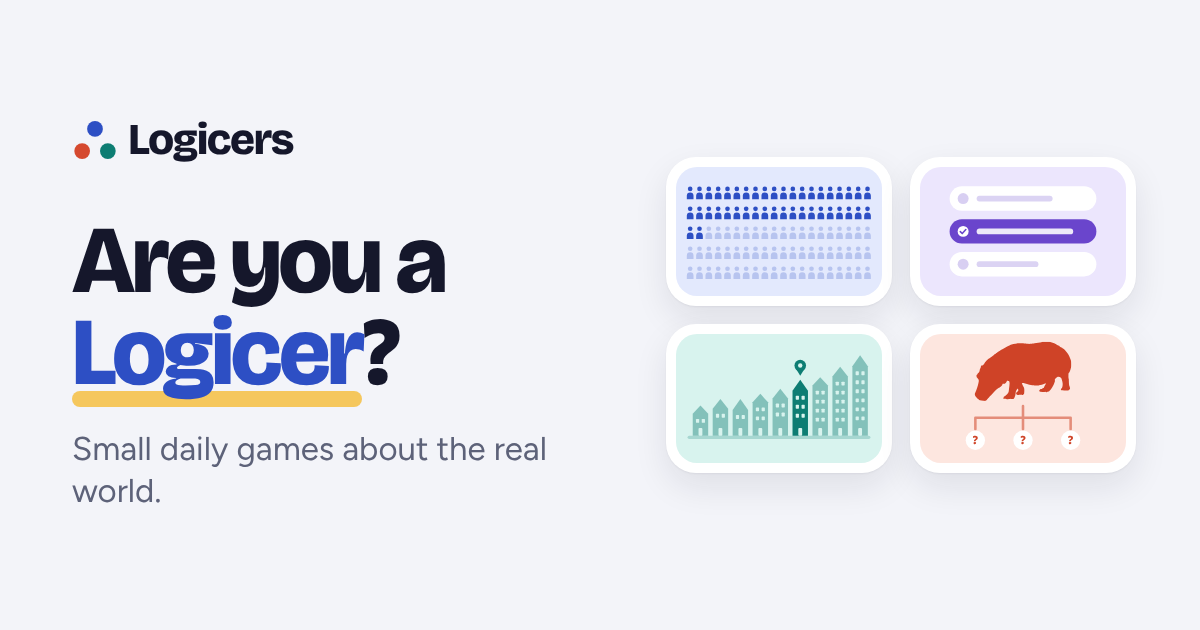
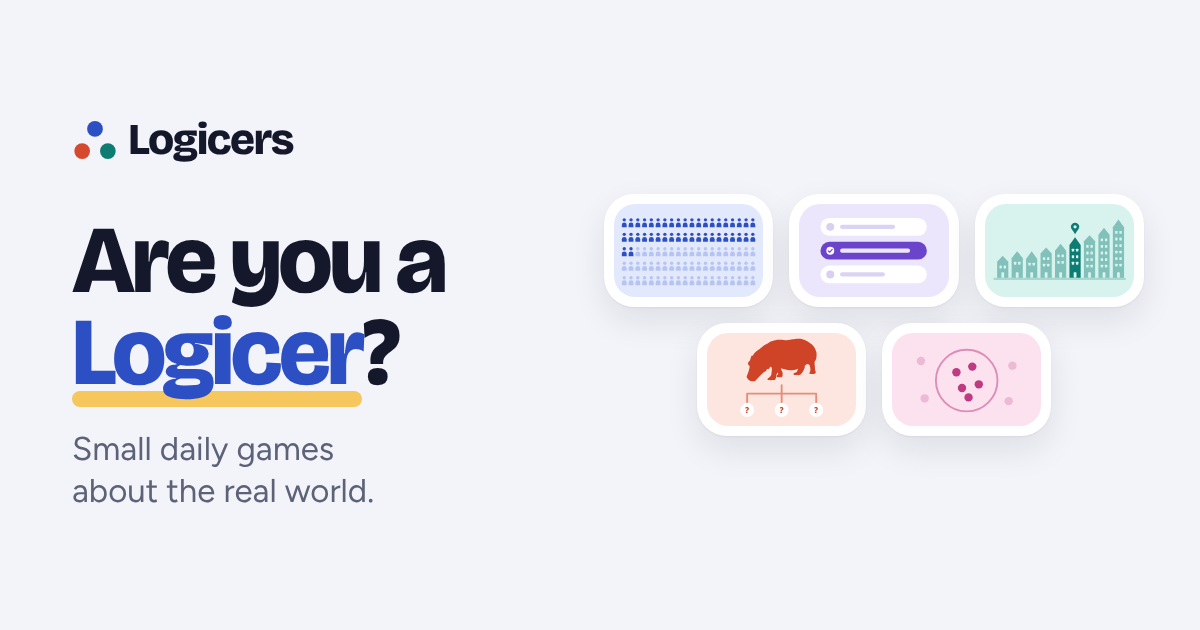
commit to site

diff --git a/long-lost-cousin/index.html b/long-lost-cousin/index.html
@@ -3,13 +3,17 @@
 <head>
 <meta charset="utf-8">
 <meta name="viewport" content="width=device-width, initial-scale=1, viewport-fit=cover">
-<title>Long Lost Cousin | Logicers</title>
+<title>Long Lost Cousin: a daily game about animal family trees | Logicers</title>
+<link rel="canonical" href="https://logicers.com/long-lost-cousin/">
 <meta name="description" content="One animal, three others. Which one is its closest relative? Pick one, then watch the family tree draw itself.">
 <meta property="og:type" content="website">
 <meta property="og:site_name" content="Logicers">
 <meta property="og:title" content="Long Lost Cousin">
 <meta property="og:description" content="One animal, three others. Which one is its closest relative?">
-<meta property="og:image" content="../assets/img/og.png">
+<meta property="og:url" content="https://logicers.com/long-lost-cousin/">
+<meta property="og:image" content="https://logicers.com/assets/img/og.png">
+<meta property="og:image:width" content="1200">
+<meta property="og:image:height" content="630">
 <meta name="twitter:card" content="summary_large_image">
 <meta name="theme-color" content="#FDE6DF" media="(prefers-color-scheme: light)">
 <meta name="theme-color" content="#080A15" media="(prefers-color-scheme: dark)">

diff --git a/the-club/index.html b/the-club/index.html
@@ -3,13 +3,17 @@
 <head>
 <meta charset="utf-8">
 <meta name="viewport" content="width=device-width, initial-scale=1, viewport-fit=cover">
-<title>The Club | Logicers</title>
+<title>The Club: a daily guess-the-rule game | Logicers</title>
+<link rel="canonical" href="https://logicers.com/the-club/">
 <meta name="description" content="Some are in the club, some are not. Work out the secret rule and decide who else gets in. Then the sign lights up with one true fact.">
 <meta property="og:type" content="website">
 <meta property="og:site_name" content="Logicers">
 <meta property="og:title" content="The Club">
 <meta property="og:description" content="Some are in the club, some are not. Work out the secret rule. Who else gets in?">
-<meta property="og:image" content="../assets/img/og.png">
+<meta property="og:url" content="https://logicers.com/the-club/">
+<meta property="og:image" content="https://logicers.com/assets/img/og.png">
+<meta property="og:image:width" content="1200">
+<meta property="og:image:height" content="630">
 <meta name="twitter:card" content="summary_large_image">
 <meta name="theme-color" content="#FBE2EE" media="(prefers-color-scheme: light)">
 <meta name="theme-color" content="#080A15" media="(prefers-color-scheme: dark)">

diff --git a/same-street/index.html b/same-street/index.html
@@ -3,13 +3,17 @@
 <head>
 <meta charset="utf-8">
 <meta name="viewport" content="width=device-width, initial-scale=1, viewport-fit=cover">
-<title>Same Street | Logicers</title>
+<title>Same Street: a daily game about how the world lives | Logicers</title>
+<link rel="canonical" href="https://logicers.com/same-street/">
 <meta name="description" content="Three photos of one real home. Place it on a street of 100 houses sorted by income, then see where it really stands.">
 <meta property="og:type" content="website">
 <meta property="og:site_name" content="Logicers">
 <meta property="og:title" content="Same Street">
 <meta property="og:description" content="Three photos of one real home. Where on the street does it stand?">
-<meta property="og:image" content="../assets/img/og.png">
+<meta property="og:url" content="https://logicers.com/same-street/">
+<meta property="og:image" content="https://logicers.com/assets/img/og.png">
+<meta property="og:image:width" content="1200">
+<meta property="og:image:height" content="630">
 <meta name="twitter:card" content="summary_large_image">
 <meta name="theme-color" content="#D8F3EE" media="(prefers-color-scheme: light)">
 <meta name="theme-color" content="#080A15" media="(prefers-color-scheme: dark)">

diff --git a/your-call/index.html b/your-call/index.html
@@ -3,13 +3,17 @@
 <head>
 <meta charset="utf-8">
 <meta name="viewport" content="width=device-width, initial-scale=1, viewport-fit=cover">
-<title>Your Call | Logicers</title>
+<title>Your Call: a daily history game | Logicers</title>
+<link rel="canonical" href="https://logicers.com/your-call/">
 <meta name="description" content="One real moment from history a day. Three choices. Make your call, then see what the real leader did and what happened next.">
 <meta property="og:type" content="website">
 <meta property="og:site_name" content="Logicers">
 <meta property="og:title" content="Your Call">
 <meta property="og:description" content="A real moment from history and three choices. What did they actually do?">
-<meta property="og:image" content="../assets/img/og.png">
+<meta property="og:url" content="https://logicers.com/your-call/">
+<meta property="og:image" content="https://logicers.com/assets/img/og.png">
+<meta property="og:image:width" content="1200">
+<meta property="og:image:height" content="630">
 <meta name="twitter:card" content="summary_large_image">
 <meta name="theme-color" content="#ECE6FD" media="(prefers-color-scheme: light)">
 <meta name="theme-color" content="#080A15" media="(prefers-color-scheme: dark)">

diff --git a/100-of-us/index.html b/100-of-us/index.html
@@ -3,13 +3,17 @@
 <head>
 <meta charset="utf-8">
 <meta name="viewport" content="width=device-width, initial-scale=1, viewport-fit=cover">
-<title>100 of Us | Logicers</title>
+<title>100 of Us: a daily game about the world's people | Logicers</title>
+<link rel="canonical" href="https://logicers.com/100-of-us/">
 <meta name="description" content="One question a day about the world's people. Press and hold, let go at your guess, and see how it really is.">
 <meta property="og:type" content="website">
 <meta property="og:site_name" content="Logicers">
 <meta property="og:title" content="100 of Us">
 <meta property="og:description" content="Of 100 people in the world, how many…? One question a day.">
-<meta property="og:image" content="../assets/img/og.png">
+<meta property="og:url" content="https://logicers.com/100-of-us/">
+<meta property="og:image" content="https://logicers.com/assets/img/og.png">
+<meta property="og:image:width" content="1200">
+<meta property="og:image:height" content="630">
 <meta name="twitter:card" content="summary_large_image">
 <meta name="theme-color" content="#E3E9FD" media="(prefers-color-scheme: light)">
 <meta name="theme-color" content="#080A15" media="(prefers-color-scheme: dark)">

diff --git a/index.html b/index.html
@@ -4,12 +4,16 @@
 <meta charset="utf-8">
 <meta name="viewport" content="width=device-width, initial-scale=1, viewport-fit=cover">
 <title>Logicers: small daily games about the real world</title>
+<link rel="canonical" href="https://logicers.com/">
 <meta name="description" content="Small daily games about the real world. A minute each, and one true thing every time, with its source.">
 <meta property="og:type" content="website">
 <meta property="og:site_name" content="Logicers">
 <meta property="og:title" content="Logicers. Are you a Logicer?">
 <meta property="og:description" content="Small daily games about the real world. A minute each. One true thing every time.">
-<meta property="og:image" content="assets/img/og.png">
+<meta property="og:url" content="https://logicers.com/">
+<meta property="og:image" content="https://logicers.com/assets/img/og.png">
+<meta property="og:image:width" content="1200">
+<meta property="og:image:height" content="630">
 <meta name="twitter:card" content="summary_large_image">
 <meta name="theme-color" content="#F3F4F9" media="(prefers-color-scheme: light)">
 <meta name="theme-color" content="#080A15" media="(prefers-color-scheme: dark)">

diff --git a/assets/js/turnsout.js b/assets/js/turnsout.js
@@ -18,7 +18,7 @@
      Empty quotes: the site's own web address is used.
      Once the site has its own domain, write it here, for example "turnsout.games".
      ------------------------------------------------------------------ */
-  var ADDRESS = "";
+  var ADDRESS = "logicers.com";
   var SELF = (document.currentScript && document.currentScript.src) || "";
 
   var KEY = "turnsout:v1";

diff --git a/r/site-workshop/make_brand.py b/r/site-workshop/make_brand.py
@@ -1,8 +1,12 @@
-"""Browser-tab icon, phone home-screen icon, link preview picture and the "not found" page, in the new look."""
-import asyncio
+"""Browser-tab icon, phone home-screen icon, link preview picture and the "not found" page, in the new look.
+
+    python3 make_brand.py [folder of the site]     the folder must be served at http://localhost:8790 while it runs
+"""
+import asyncio, os, sys, tempfile
 from playwright.async_api import async_playwright
 from arts import *
-OUT = '/home/claude/work/site2'
+OUT = sys.argv[1] if len(sys.argv) > 1 else '/home/claude/work/site2'   # the folder of the site; it must also be served at http://localhost:8790
+TOUCH = os.path.join(tempfile.gettempdir(), 'logicers-touch.html')
 
 favicon = '''<svg xmlns="http://www.w3.org/2000/svg" viewBox="0 0 64 64">
 <circle cx="32" cy="16.5" r="11.5" fill="#3558DC"/>
@@ -18,20 +22,22 @@ svg { display: block; width: 180px; height: 180px; }
 </style></head><body>
 <svg viewBox="0 0 180 180"><circle cx="90" cy="55" r="26" fill="#2D4FC4"/><circle cx="51" cy="122" r="26" fill="#D5492F"/><circle cx="129" cy="122" r="26" fill="#0D7D73"/></svg>
 </body></html>'''
-open('touch.html', 'w').write(touch)
+open(TOUCH, 'w').write(touch)
 
 og = f'''<!doctype html><html><head><meta charset="utf-8">
 <link rel="stylesheet" href="assets/css/logicers.css">
 <style>
 html, body {{ margin: 0; width: 1200px; height: 630px; overflow: hidden; background: #F3F4F9; }}
-.wrap {{ display: grid; grid-template-columns: 1fr 470px; gap: 40px; align-items: center; height: 630px; padding: 0 64px 0 72px; }}
+.wrap {{ display: grid; grid-template-columns: 1fr 540px; gap: 40px; align-items: center; height: 630px; padding: 0 56px 0 72px; max-width: none; margin: 0; box-sizing: border-box; }}
 .logo .mark {{ width: 46px; height: 46px; }}
 .logo .word {{ font-size: 44px; }}
 h1 {{ font-family: var(--display); font-weight: 800; font-size: 96px; line-height: .96; letter-spacing: -0.035em; margin-top: 46px; position: relative; z-index: 0; }}
 h1 em {{ font-style: normal; color: #2D4FC4; position: relative; white-space: nowrap; }}
 h1 em::after {{ content: ""; position: absolute; left: 0; right: 0; bottom: .04em; height: .16em; border-radius: 99px; background: #F5C24B; z-index: -1; opacity: .9; }}
-.sub {{ margin-top: 28px; font-size: 33px; line-height: 1.3; color: #5D6279; max-width: 14.5em; }}
-.arts {{ display: grid; grid-template-columns: 1fr 1fr; gap: 18px; }}
+.sub {{ margin-top: 28px; font-size: 33px; line-height: 1.3; color: #5D6279; max-width: 14.5em; text-wrap: balance; }}
+.arts {{ display: grid; grid-template-columns: repeat(6, 1fr); gap: 16px; }}
+.arts .card {{ grid-column: span 2; }}
+.arts .card:nth-child(4) {{ grid-column: 2 / span 2; }}   /* five cards: three above, two centred below */
 .card {{ background: #fff; border-radius: 30px; padding: 10px; box-shadow: 0 1px 2px rgba(21,23,43,.05), 0 14px 34px rgba(21,23,43,.09); }}
 .card .art {{ border-radius: 21px; }}
 </style></head><body>
@@ -46,6 +52,7 @@ h1 em::after {{ content: ""; position: absolute; left: 0; right: 0; bottom: .04e
     <div class="card" data-g="call"><div class="art">{art_call()}</div></div>
     <div class="card" data-g="street"><div class="art">{art_street()}</div></div>
     <div class="card" data-g="cousin"><div class="art">{art_cousin()}</div></div>
+    <div class="card" data-g="club"><div class="art">{art_club()}</div></div>
   </div>
 </div>
 <script src="long-lost-cousin/pics/hippo.js"></script>
@@ -99,7 +106,7 @@ async def main():
     async with async_playwright() as p:
         br = await p.chromium.launch()
         ctx = await br.new_context(viewport={'width': 180, 'height': 180}, device_scale_factor=1)
-        pg = await ctx.new_page(); await pg.goto('file:///home/claude/work/site2tools/touch.html'); await pg.screenshot(path=f'{OUT}/assets/img/apple-touch-icon.png'); await ctx.close()
+        pg = await ctx.new_page(); await pg.goto('file://' + TOUCH); await pg.screenshot(path=f'{OUT}/assets/img/apple-touch-icon.png'); await ctx.close()
         ctx = await br.new_context(viewport={'width': 1200, 'height': 630}, device_scale_factor=1, color_scheme='light')
         pg = await ctx.new_page(); errs = []
         pg.on('console', lambda m: errs.append(m.text) if m.type == 'error' else None)

diff --git a/r/site-workshop/build_home.py b/r/site-workshop/build_home.py
@@ -13,6 +13,7 @@ The shelf is laid out by the number of games: logicers.css has rules for .grid[d
 """
 import os, sys
 OUT = sys.argv[1] if len(sys.argv) > 1 else '/home/claude/work/site2'
+SITE_URL = 'https://logicers.com/'      # the site's own address: link previews, sitemap.xml and robots.txt use it
 
 from arts import *
 
@@ -55,12 +56,16 @@ html = f'''<!doctype html>
 <meta charset="utf-8">
 <meta name="viewport" content="width=device-width, initial-scale=1, viewport-fit=cover">
 <title>Logicers: small daily games about the real world</title>
+<link rel="canonical" href="{SITE_URL}">
 <meta name="description" content="Small daily games about the real world. A minute each, and one true thing every time, with its source.">
 <meta property="og:type" content="website">
 <meta property="og:site_name" content="Logicers">
 <meta property="og:title" content="Logicers. Are you a Logicer?">
 <meta property="og:description" content="Small daily games about the real world. A minute each. One true thing every time.">
-<meta property="og:image" content="assets/img/og.png">
+<meta property="og:url" content="{SITE_URL}">
+<meta property="og:image" content="{SITE_URL}assets/img/og.png">
+<meta property="og:image:width" content="1200">
+<meta property="og:image:height" content="630">
 <meta name="twitter:card" content="summary_large_image">
 <meta name="theme-color" content="#F3F4F9" media="(prefers-color-scheme: light)">
 <meta name="theme-color" content="#080A15" media="(prefers-color-scheme: dark)">
@@ -157,4 +162,11 @@ html = f'''<!doctype html>
 </html>
 '''
 open(f'{OUT}/index.html', 'w', encoding='utf-8').write(html)
+
+# the list of pages for search engines, and the file that points them to it
+pages = [SITE_URL] + [SITE_URL + g['href'] for g in GAMES]
+open(f'{OUT}/sitemap.xml', 'w', encoding='utf-8').write(
+    '<?xml version="1.0" encoding="UTF-8"?>\n<urlset xmlns="http://www.sitemaps.org/schemas/sitemap/0.9">\n'
+    + ''.join(f'  <url><loc>{u}</loc><changefreq>daily</changefreq></url>\n' for u in pages) + '</urlset>\n')
+open(f'{OUT}/robots.txt', 'w', encoding='utf-8').write(f'User-agent: *\nAllow: /\nDisallow: /r/\n\nSitemap: {SITE_URL}sitemap.xml\n')
 print('index.html', len(html), 'bytes')
